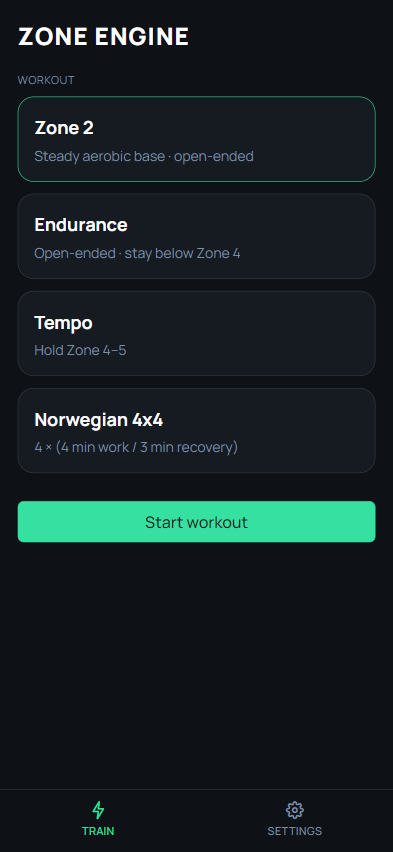
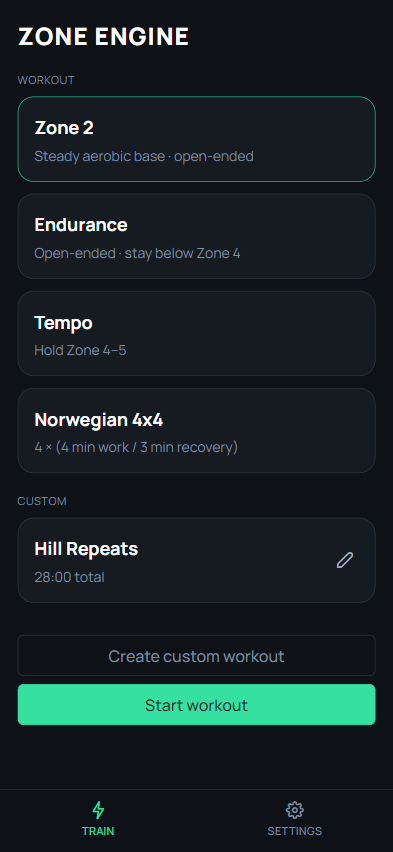
Refresh screenshots; add custom workout builder slide and feature

Changed region(s): [[0.0305, 0.5798, 0.9771, 0.7019], [0.0305, 0.7629, 0.9771, 0.8545]]

diff --git a/index.html b/index.html
@@ -77,12 +77,19 @@
                         <button type="button" data-bs-target="#shotCarousel" data-bs-slide-to="3" aria-label="Slide 4"></button>
                         <button type="button" data-bs-target="#shotCarousel" data-bs-slide-to="4" aria-label="Slide 5"></button>
                         <button type="button" data-bs-target="#shotCarousel" data-bs-slide-to="5" aria-label="Slide 6"></button>
+                        <button type="button" data-bs-target="#shotCarousel" data-bs-slide-to="6" aria-label="Slide 7"></button>
                     </div>
                     <div class="carousel-inner">
                         <div class="carousel-item active">
                             <div class="shot">
                                 <div class="phone"><img src="/images/01-select-workout.png" alt="Select a workout" /></div>
                                 <p class="caption">Pick a workout</p>
+                            </div>
+                        </div>
+                        <div class="carousel-item">
+                            <div class="shot">
+                                <div class="phone"><img src="/images/07-custom-builder.png" alt="Custom workout builder" /></div>
+                                <p class="caption">Build your own workout</p>
                             </div>
                         </div>
                         <div class="carousel-item">
@@ -141,6 +148,11 @@
                         <i class="bi bi-volume-up" style="color: var(--z4)"></i>
                         <h3>Audio cues</h3>
                         <p>Spoken or tone cues call out your zone, on every change or on a schedule you set, so you can keep your eyes off the screen.</p>
+                    </div>
+                    <div class="feature">
+                        <i class="bi bi-sliders" style="color: var(--z5)"></i>
+                        <h3>Custom workouts</h3>
+                        <p>Build your own sessions: set target zones and durations, group intervals, and repeat them as many times as you want.</p>
                     </div>
                 </div>
             </div>
